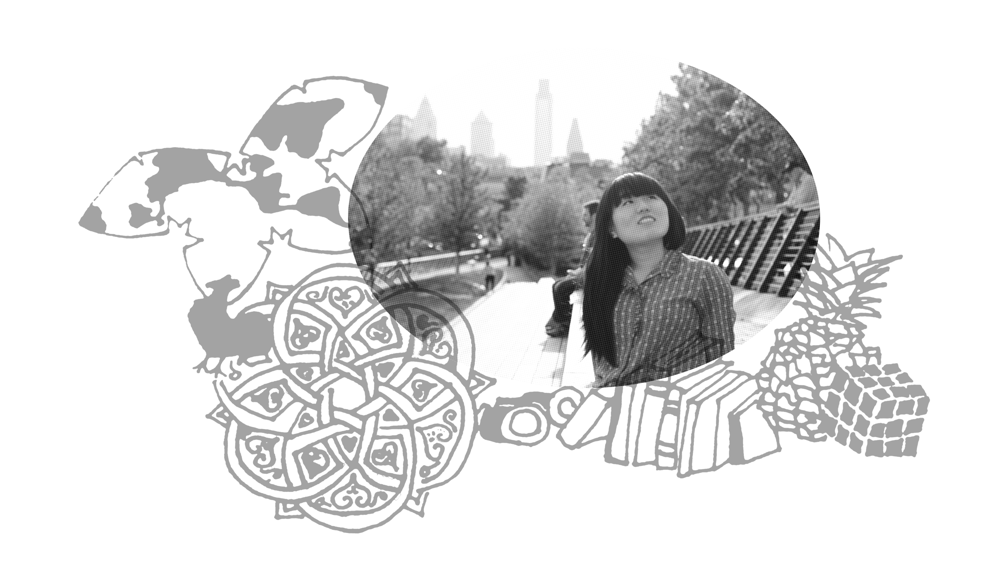
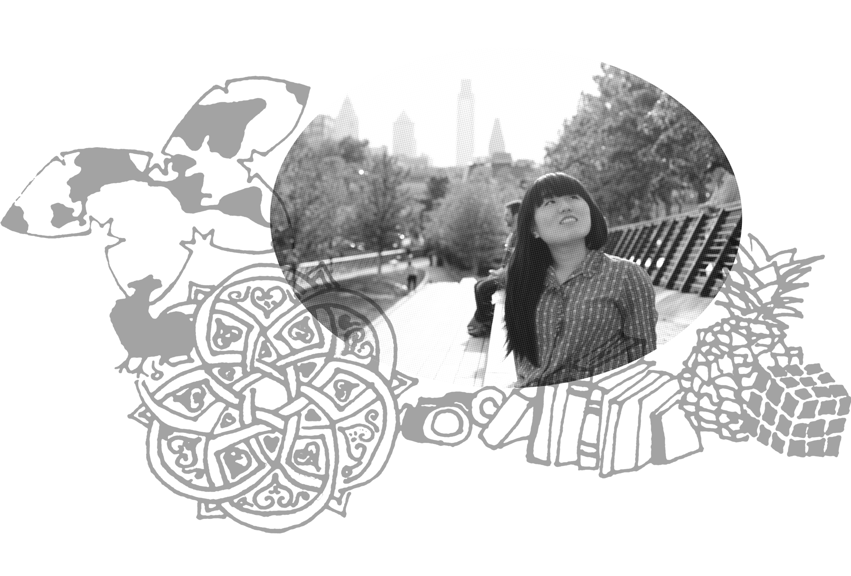
About Finished

Changed region(s): [[0.0306, 0.0938, 1.0, 0.9375], [0.0, 0.3438, 0.0306, 0.4062]]

diff --git a/about.html b/about.html
@@ -60,14 +60,32 @@
         
         
         <div class="col1">
-            <img src="/images/aboutimage.png"  onmouseover="this.src='/images/aboutimagehover.png'" onmouseout="this.src='/images/aboutimage.png'" alt="aboutimage" style="width:600px;">    
+
+            <img src="/images/aboutimage.png"  onmouseover="this.src='/images/aboutimagehover.png'" onmouseout="this.src='/images/aboutimage.png'" alt="aboutimage" style="width:500px;">    
         </div>
         <div class="col2">  
             
+            <h1>SUMMARY</h1>
+              <p>Hi! I'm Annie Lin aka the girl with the bangs. 
+                  <br> NYC-born and Philly-raised. Alumni of the 272nd class of Central High School. (2nd oldest public high school in the country!) Proud bearer of a simian line. Current sophomore at Harvard studying CS. 
+                  <br> Artist, Scholar, & so much more!</p>
+            <h1>THINGS I LIKE:</h1>
+            <ul class="list">
+              <li>pineapples</li>
+              <li>franz kafka</li>
+              <li>waterman butterfly maps</li>
+              <li>minimalist posters</li>
+              <li>sriracha</li>
+              <li>wes anderson films</li>
+              <li>rubik's cubes</li>
+              <li>arabesques</li>
+              <li>making peace signs</li>
+            </ul>
+            
         </div>
-        
     </div>
-    <p style="text-align:center; margin: 20px; font-family: passiontea; color: #666; position: absolute; bottom: 0; width: 100%; clear: both; margin-bottom: 24px;">You have reached the bottom of this page! &copy Annie Lin</p>
+    
+    <p style="text-align:center; margin: 20px; font-family: passiontea; color: #666; position: absolute; bottom: 0; width: 100%; clear: both; margin-bottom: 24px;"> You have reached the bottom of this page! &copy Annie Lin</p>
 <!-- You have reached the end! -->
 
     

diff --git a/main.css b/main.css
@@ -4,9 +4,15 @@ font-family: passiontea;
 src: url(PassionTea.ttf);
 }
 
+@font-face
+{
+font-family: caviardreams;
+src: url(CaviarDreams.ttf);
+}
+
 .main
 {
-width: 1000px;
+width: 900px;
 margin-left: auto;
 margin-right: auto;
 display: block;
@@ -15,8 +21,14 @@ font-family: passiontea
 
 h1
 {
-color: #666;  
-font-size: 30px;
+color: #666; 
+font-size: 20px;
+}
+
+h1:hover
+{
+color: #941100;  
+font-size: 20px;
 }
 
 #header {
@@ -76,18 +88,18 @@ background-color: #A9A9A9;
 color: #941100
 }
 
-#col1 {
+.col1 {
+font-size: 15px;
 float: left;
-display: block;
-text-align: left;
-width: 50%;
+width: 30%;
+font-family: caviardreams;
 }
 
-#col2 {
+.col2 {
+font-size: 15px;
 float: right;
-display: block;
-text-align: right;
-width: 100%;
+width: 40%;
+font-family: caviardreams;
 }
 
 #line {
@@ -105,6 +117,15 @@ width: 98%;
 position: relative; 
 top: 1px;
 width: 30px;
+}
+
+.list li {
+display: inline-block;
+background: #A9A9A9;
+color: #FFF;
+font-size: 12px;    
+padding: 4px 8px;
+margin: 0 8px 10px 0;
 }
 
 a:link {text-decoration:none; color: #666;}
